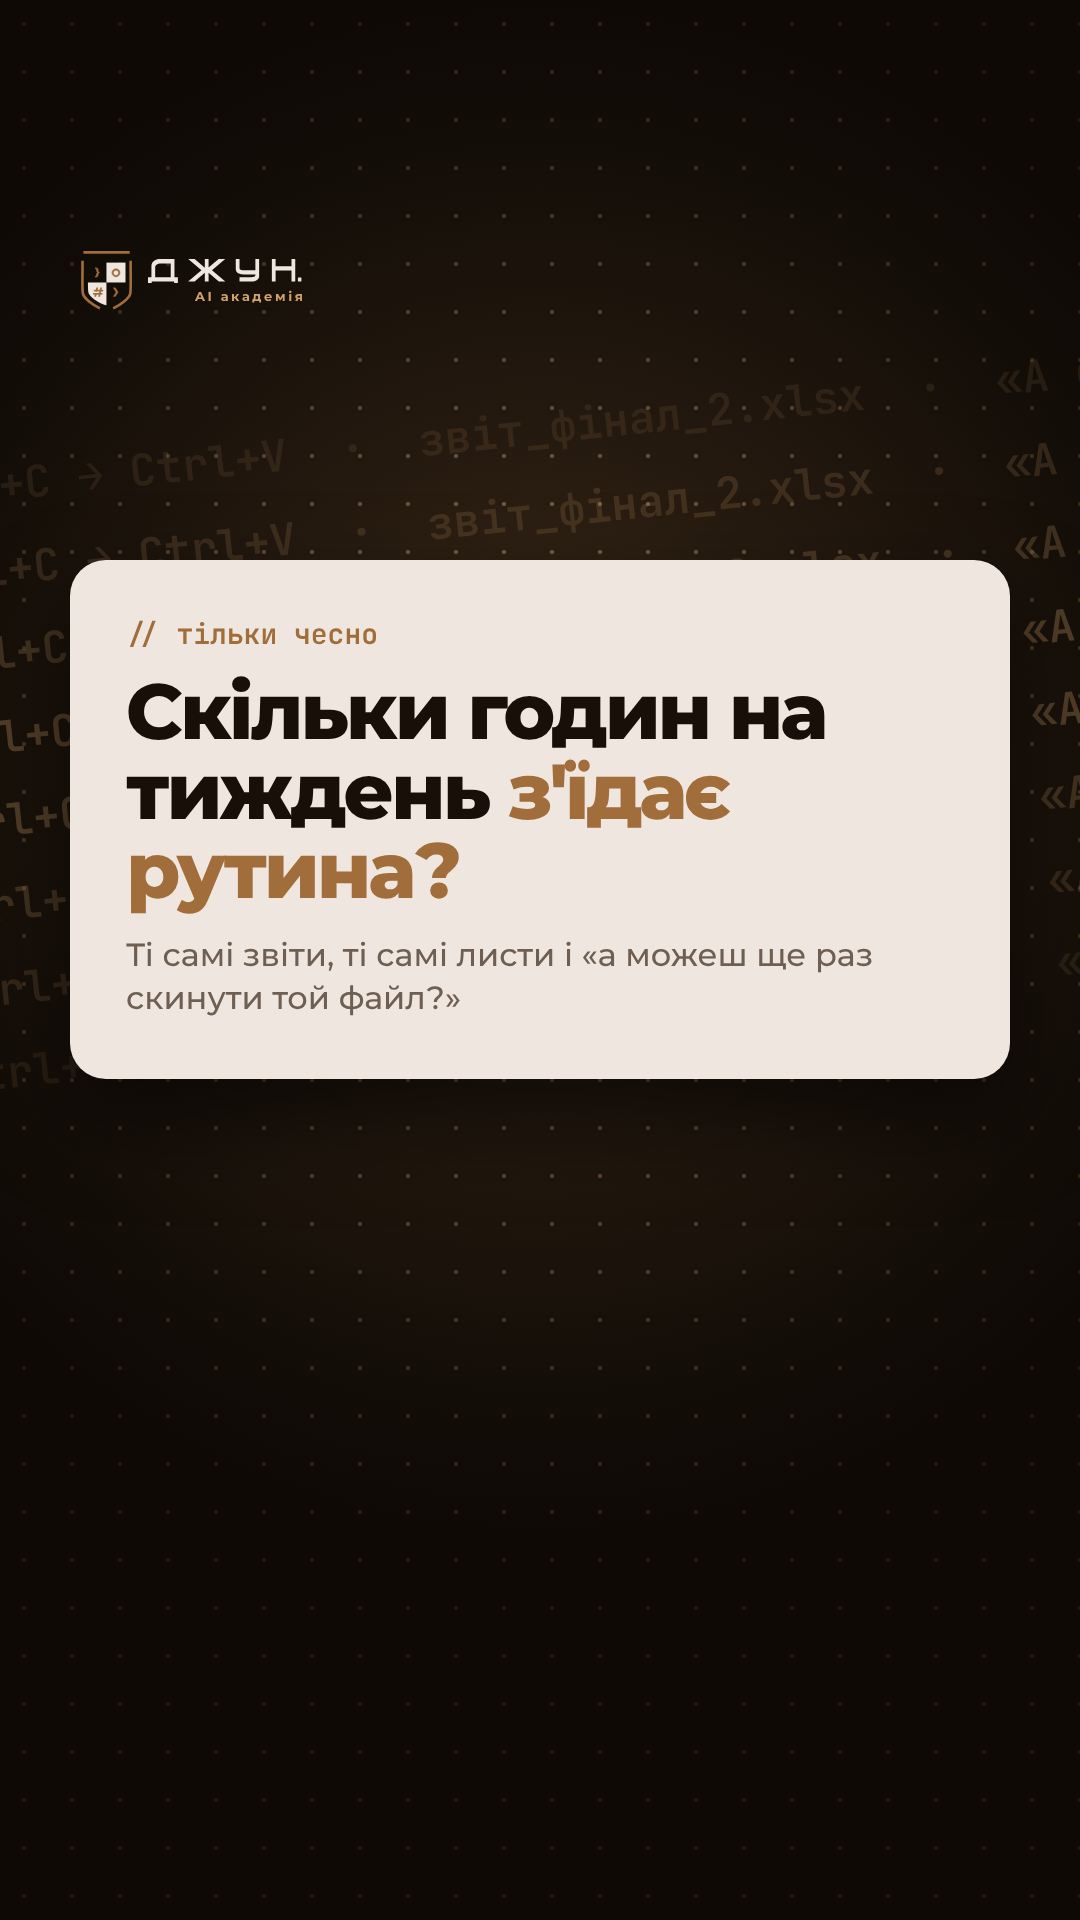
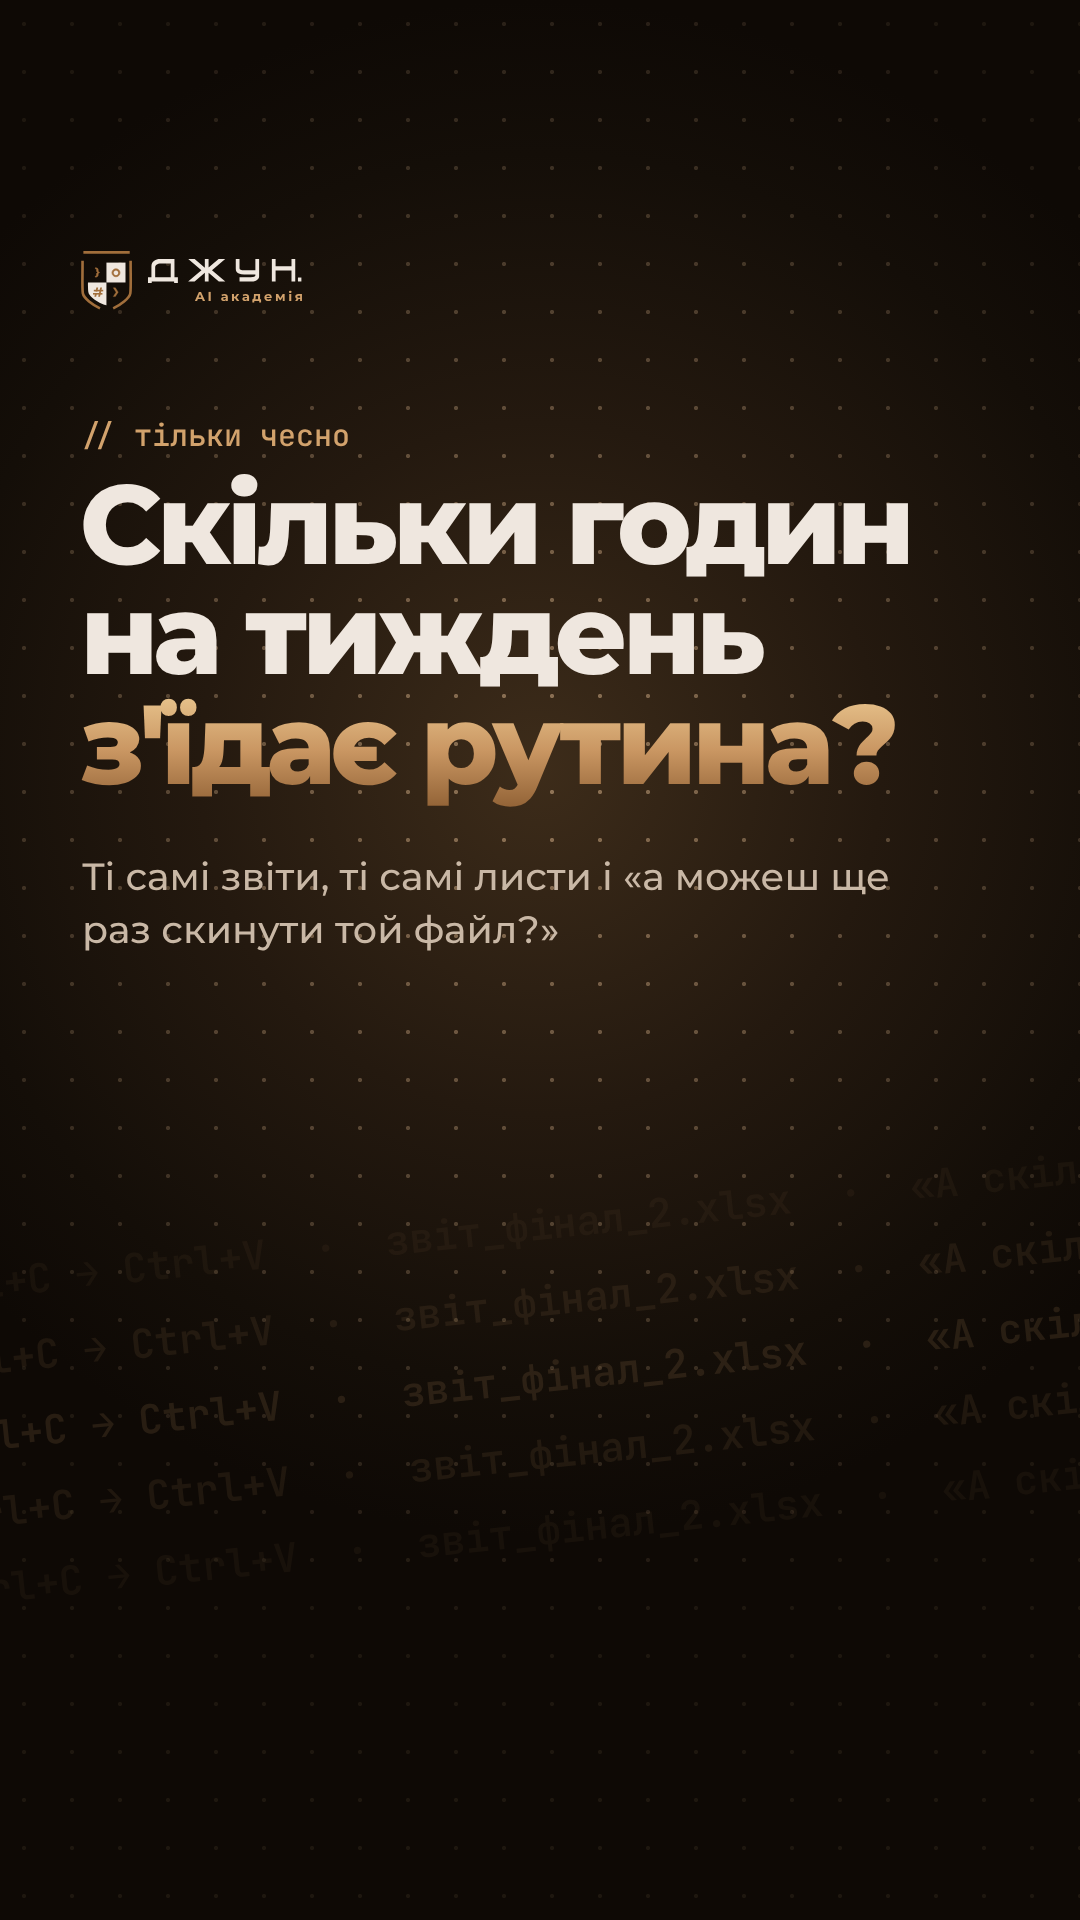
Story 3: plain dark background, white text, no card
Claude-Session: https://claude.ai/code/session_01F8vpXYV6V72iEGbNVpHMN7

diff --git a/2026-11-03_stories/v2/story_3_time.html b/2026-11-03_stories/v2/story_3_time.html
@@ -4,11 +4,12 @@
 .logo .w{display:flex;flex-direction:column;align-items:flex-end}.logo small{font:700 13px/1 M;letter-spacing:.2em;margin-top:7px;margin-right:-.2em;color:#D2A26C}
 
 body{background:radial-gradient(70% 40% at 50% 40%,#3d2c1a 0%,#24190f 45%,#140e08 80%,#0e0905 100%);color:#EFE7DF}
-.wall{position:absolute;left:-80px;top:380px;width:1400px;font:600 44px/1.9 J;color:#D2A26C;white-space:nowrap;transform:rotate(-6deg)}
-.box{position:absolute;left:70px;right:70px;top:560px;background:#EFE7DF;color:#190F09;border-radius:36px;padding:60px 56px;box-shadow:0 40px 90px rgba(0,0,0,.6)}
-.box i{display:block;font:600 28px/1 J;font-style:normal;color:#A16E3B;margin-bottom:24px}
-.box b{display:block;font-weight:800;font-size:78px;line-height:1.02;letter-spacing:-.04em}
-.box b em{font-style:normal;color:#A16E3B}
-.mini{position:absolute;left:0;right:0;top:1020px;text-align:center;font:500 30px/1 J;color:#B9A897}
-</style><div style="position:absolute;inset:0;background-image:radial-gradient(circle,rgba(217,180,140,.55) 1.8px,transparent 2.4px);background-size:48px 48px;-webkit-mask:radial-gradient(70% 45% at 50% 40%,#000 0%,rgba(0,0,0,.45) 60%,rgba(0,0,0,.15) 100%)"></div><div class="wall"><div style="opacity:0.1">Ctrl+C → Ctrl+V &nbsp;·&nbsp; звіт_фінал_2.xlsx &nbsp;·&nbsp; «А скільки коштує?»</div><div style="opacity:0.16">Ctrl+C → Ctrl+V &nbsp;·&nbsp; звіт_фінал_2.xlsx &nbsp;·&nbsp; «А скільки коштує?»</div><div style="opacity:0.22">Ctrl+C → Ctrl+V &nbsp;·&nbsp; звіт_фінал_2.xlsx &nbsp;·&nbsp; «А скільки коштує?»</div><div style="opacity:0.3">Ctrl+C → Ctrl+V &nbsp;·&nbsp; звіт_фінал_2.xlsx &nbsp;·&nbsp; «А скільки коштує?»</div><div style="opacity:0.3">Ctrl+C → Ctrl+V &nbsp;·&nbsp; звіт_фінал_2.xlsx &nbsp;·&nbsp; «А скільки коштує?»</div><div style="opacity:0.22">Ctrl+C → Ctrl+V &nbsp;·&nbsp; звіт_фінал_2.xlsx &nbsp;·&nbsp; «А скільки коштує?»</div><div style="opacity:0.16">Ctrl+C → Ctrl+V &nbsp;·&nbsp; звіт_фінал_2.xlsx &nbsp;·&nbsp; «А скільки коштує?»</div><div style="opacity:0.1">Ctrl+C → Ctrl+V &nbsp;·&nbsp; звіт_фінал_2.xlsx &nbsp;·&nbsp; «А скільки коштує?»</div></div><div class="logo"><img src="crest_light.svg" style="height:60px"><div class="w"><img src="letters_light.svg" style="height:25px"><small>AI академія</small></div></div>
-<div class="box"><i>// тільки чесно</i><b>Скільки годин на тиждень <em>з'їдає рутина?</em></b><p style="font:500 32px/1.35 M;color:#6E5F52;margin-top:22px">Ті самі звіти, ті самі листи і «а можеш ще раз скинути той файл?»</p></div>
+.wall{position:absolute;left:-80px;top:1180px;width:1400px;font:600 40px/1.9 J;color:#D2A26C;white-space:nowrap;transform:rotate(-6deg)}
+.k{position:absolute;left:80px;top:420px;font:500 30px/1 J;color:#D2A26C}
+h1{position:absolute;left:80px;right:80px;top:470px;font-weight:800;font-size:112px;line-height:.98;letter-spacing:-.045em;color:#EFE7DF}
+h1 em{font-style:normal;background:linear-gradient(180deg,#F2D29A 0%,#C99662 55%,#8E5F33 100%);-webkit-background-clip:text;color:transparent}
+p{position:absolute;left:82px;right:120px;top:850px;font:500 38px/1.4 M;color:#C9B8A6}
+</style><div style="position:absolute;inset:0;background-image:radial-gradient(circle,rgba(217,180,140,.55) 1.8px,transparent 2.4px);background-size:48px 48px;-webkit-mask:radial-gradient(70% 45% at 50% 40%,#000 0%,rgba(0,0,0,.45) 60%,rgba(0,0,0,.15) 100%)"></div><div class="wall"><div style="opacity:0.05">Ctrl+C → Ctrl+V &nbsp;·&nbsp; звіт_фінал_2.xlsx &nbsp;·&nbsp; «А скільки коштує?»</div><div style="opacity:0.09">Ctrl+C → Ctrl+V &nbsp;·&nbsp; звіт_фінал_2.xlsx &nbsp;·&nbsp; «А скільки коштує?»</div><div style="opacity:0.13">Ctrl+C → Ctrl+V &nbsp;·&nbsp; звіт_фінал_2.xlsx &nbsp;·&nbsp; «А скільки коштує?»</div><div style="opacity:0.09">Ctrl+C → Ctrl+V &nbsp;·&nbsp; звіт_фінал_2.xlsx &nbsp;·&nbsp; «А скільки коштує?»</div><div style="opacity:0.05">Ctrl+C → Ctrl+V &nbsp;·&nbsp; звіт_фінал_2.xlsx &nbsp;·&nbsp; «А скільки коштує?»</div></div><div class="logo"><img src="crest_light.svg" style="height:60px"><div class="w"><img src="letters_light.svg" style="height:25px"><small>AI академія</small></div></div>
+<div class="k">// тільки чесно</div>
+<h1>Скільки годин<br>на тиждень<br><em>з'їдає рутина?</em></h1>
+<p>Ті самі звіти, ті самі листи і «а можеш ще раз скинути той файл?»</p>

diff --git a/2026-11-03_stories/v2/build.py b/2026-11-03_stories/v2/build.py
@@ -30,16 +30,16 @@ h1 em{{font-style:normal;color:#A16E3B}}
 <h1>Не знайшли<br>себе? <em>Впишіть<br>свій варіант</em></h1>
 '''
 # 3: routine wall of Ctrl+C/V, centered question, poll bottom
-rows=''.join(f'<div style="opacity:{o}">Ctrl+C → Ctrl+V &nbsp;·&nbsp; звіт_фінал_2.xlsx &nbsp;·&nbsp; «А скільки коштує?»</div>' for o in [.1,.16,.22,.3,.3,.22,.16,.1])
+rows=''.join(f'<div style="opacity:{o}">Ctrl+C → Ctrl+V &nbsp;·&nbsp; звіт_фінал_2.xlsx &nbsp;·&nbsp; «А скільки коштує?»</div>' for o in [.05,.09,.13,.09,.05])
 S['3_time']=f'''<!doctype html><meta charset="utf-8"><style>{BASE}
 body{{{DARK}}}
-.wall{{position:absolute;left:-80px;top:380px;width:1400px;font:600 44px/1.9 J;color:#D2A26C;white-space:nowrap;transform:rotate(-6deg)}}
-.box{{position:absolute;left:70px;right:70px;top:560px;background:#EFE7DF;color:#190F09;border-radius:36px;padding:60px 56px;box-shadow:0 40px 90px rgba(0,0,0,.6)}}
-.box i{{display:block;font:600 28px/1 J;font-style:normal;color:#A16E3B;margin-bottom:24px}}
-.box b{{display:block;font-weight:800;font-size:78px;line-height:1.02;letter-spacing:-.04em}}
-.box b em{{font-style:normal;color:#A16E3B}}
-.mini{{position:absolute;left:0;right:0;top:1020px;text-align:center;font:500 30px/1 J;color:#B9A897}}
+.wall{{position:absolute;left:-80px;top:1180px;width:1400px;font:600 40px/1.9 J;color:#D2A26C;white-space:nowrap;transform:rotate(-6deg)}}
+.k{{position:absolute;left:80px;top:420px;font:500 30px/1 J;color:#D2A26C}}
+h1{{position:absolute;left:80px;right:80px;top:470px;font-weight:800;font-size:112px;line-height:.98;letter-spacing:-.045em;color:#EFE7DF}}
+h1 em{{font-style:normal;{GOLD}}}
+p{{position:absolute;left:82px;right:120px;top:850px;font:500 38px/1.4 M;color:#C9B8A6}}
 </style>{DOTS}<div class="wall">{rows}</div>{logo()}
-<div class="box"><i>// тільки чесно</i><b>Скільки годин на тиждень <em>з'їдає рутина?</em></b><p style="font:500 32px/1.35 M;color:#6E5F52;margin-top:22px">Ті самі звіти, ті самі листи і «а можеш ще раз скинути той файл?»</p></div>
-'''
+<div class="k">// тільки чесно</div>
+<h1>Скільки годин<br>на тиждень<br><em>з'їдає рутина?</em></h1>
+<p>Ті самі звіти, ті самі листи і «а можеш ще раз скинути той файл?»</p>'''
 for k,v in S.items(): open(f'story_{k}.html','w').write(v)
